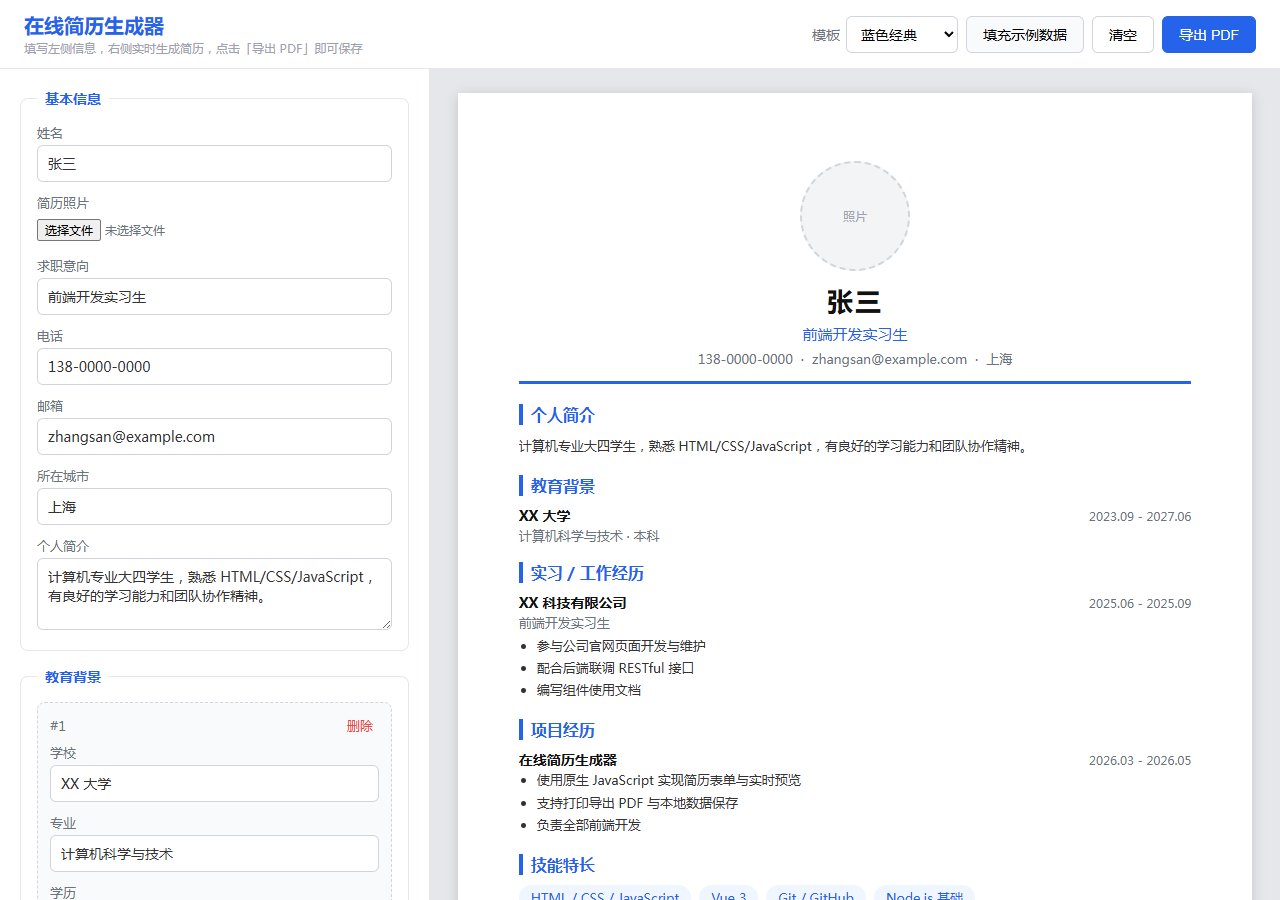
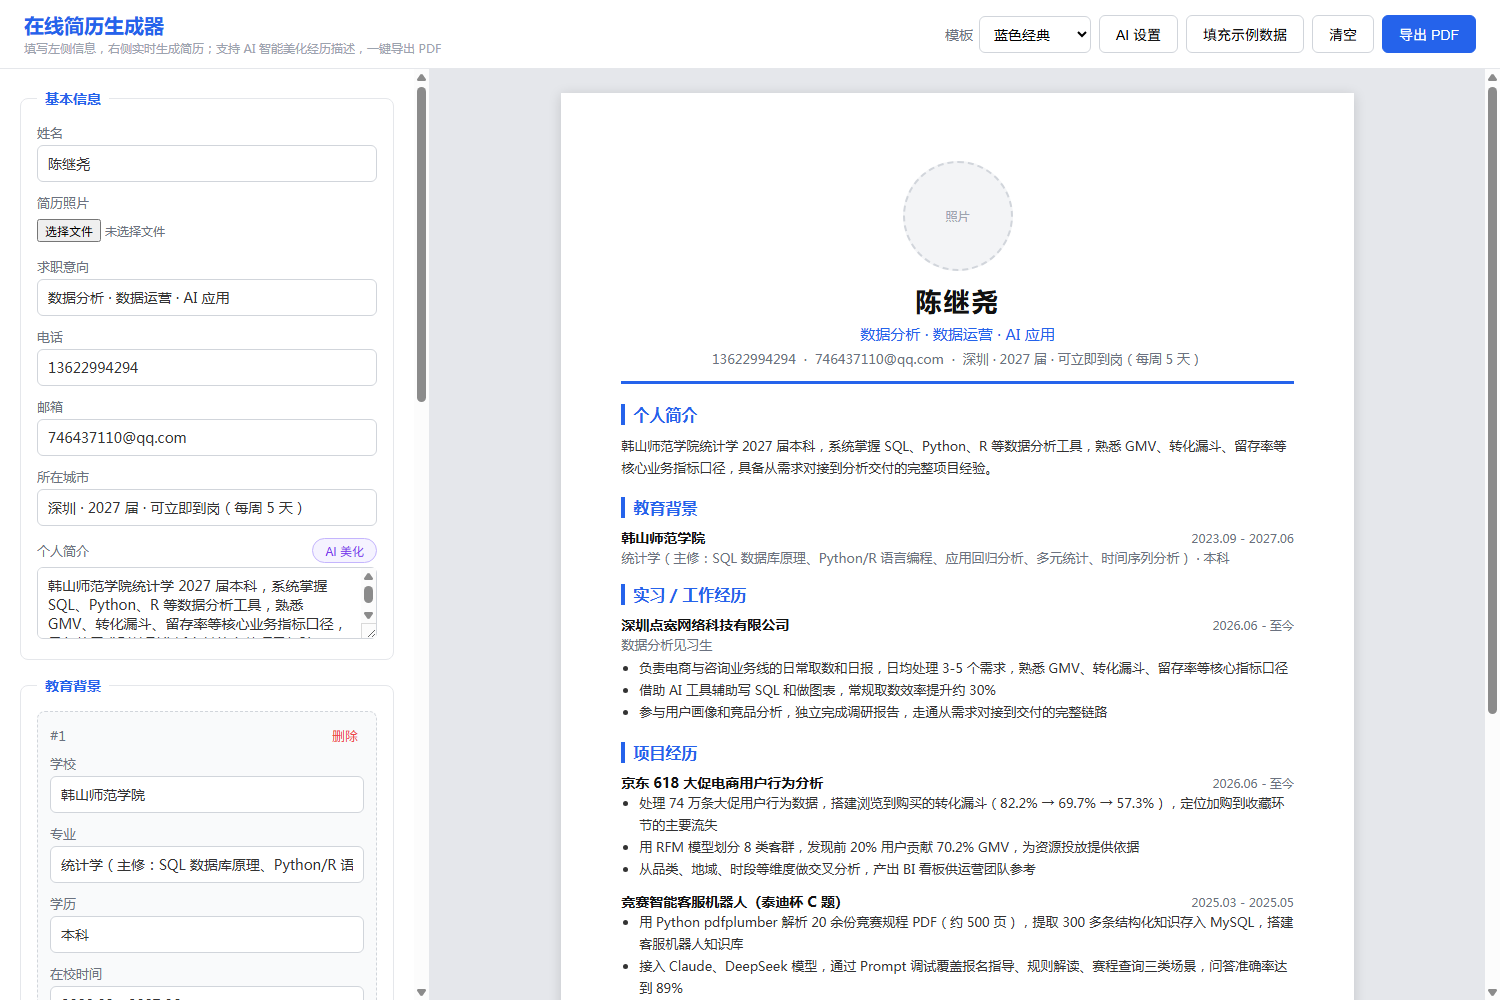
docs: 更新 README 与效果截图
- 补充 AI 智能美化功能说明与配置教程
- 新增 URL 参数预览小技巧与更新日志
- 重新生成主界面与侧边栏模板截图

diff --git a/README.md b/README.md
@@ -1,10 +1,11 @@
 # 在线简历生成器
 
-一个纯前端实现的在线简历制作网站：用户填写表单 → 实时生成排版好的 A4 简历 → 一键导出 PDF。
+一个纯前端实现的在线简历制作网站：用户填写表单 → 实时生成排版好的 A4 简历 → AI 智能美化经历描述 → 一键导出 PDF。
 
 ## 功能特性
 
 - **表单录入**：基本信息、教育背景、实习/工作经历、项目经历（支持多条动态添加/删除）、技能特长、自我评价
+- **AI 智能美化**：填写工作内容、项目描述、个人简介、技能特长、自我评价时，点击「AI 美化」即可调用大模型润色——动词开头、量化成果、贴合招聘方阅读习惯；用户自行填写 API Key，支持 DeepSeek / 通义千问 / 智谱 GLM / Kimi / OpenAI 及任意 OpenAI 兼容接口
 - **实时预览**：输入即更新，A4 纸张实时渲染，空白栏目自动隐藏
 - **三套简历模板**：蓝色经典 / 深色头部 / 侧边栏双栏，一键切换，切换后自动记住
 - **照片上传**：自动压缩到 320px 存本地，三套模板均支持显示，可随时移除
@@ -23,23 +24,48 @@
 2. 仓库 Settings → Pages → Source 选择 `main` 分支 + `/ (root)` → Save
 3. 约 1 分钟后访问 `https://你的用户名.github.io/仓库名/`
 
+## 使用 AI 智能美化
+
+1. 点击顶部工具栏的「**AI 设置**」按钮
+2. 选择服务商（内置 DeepSeek、通义千问、智谱 GLM、Kimi、OpenAI 预设，也可选自定义填写任意 OpenAI 兼容接口地址），系统会自动填入默认的接口地址与模型名称
+3. 填入**你自己的 API Key** 并保存（Key 仅保存在你自己浏览器的 localStorage 中，不会上传到任何服务器）
+4. 在工作内容、项目描述、个人简介、技能特长、自我评价等文本框旁点击「**AI 美化**」，稍候片刻即可自动回填润色结果
+
+> 说明：纯前端直连需要该服务商允许浏览器跨域（CORS）调用；若提示网络失败，请更换支持 CORS 的服务商或使用自定义反向代理地址。
+
 ## 项目结构
 
 | 文件 | 作用 |
 |---|---|
-| `index.html` | 页面骨架与顶部工具栏 |
-| `style.css` | 页面样式 + 三套模板样式 + 打印样式 |
-| `app.js` | 表单渲染、实时预览、照片压缩、模板切换、数据保存 |
+| `index.html` | 页面骨架、顶部工具栏与 AI 设置弹窗 |
+| `style.css` | 页面样式 + 三套模板样式 + AI 按钮/弹窗样式 + 打印样式 |
+| `app.js` | 表单渲染、实时预览、照片压缩、模板切换、AI 美化（OpenAI 兼容接口调用）、数据保存 |
 | `favicon.svg` | 浏览器标签页图标 |
 | `screenshots/` | 效果截图 |
 | `LICENSE` | MIT 开源协议 |
 
 ## 技术栈
 
-原生 HTML + CSS + JavaScript，零依赖、零构建，浏览器直接运行。
+原生 HTML + CSS + JavaScript，零依赖、零构建，浏览器直接运行；AI 美化基于 OpenAI 兼容的 `chat/completions` 接口，由用户自行配置服务商与密钥。
+
+## 小技巧
+
+- 在 URL 后加 `?demo=1` 可一键填充示例简历（真实案例：统计学背景转数据分析/数据运营方向），加 `&template=sidebar` 可直接预览侧边栏双栏模板，例如 `index.html?demo=1&template=sidebar`
 
 ## 效果截图
 
 ![主界面-蓝色经典](screenshots/main.png)
 
 ![侧边栏双栏模板](screenshots/sidebar.png)
+
+## 更新日志
+
+- **2026-08-19**
+  - 新增 AI 智能美化：用户自填 API Key，支持主流大模型服务商与 OpenAI 兼容接口
+  - 示例数据替换为真实简历案例（数据分析 / 数据运营 / AI 应用方向）
+  - 支持 `?demo=1` / `?template=` URL 参数快速预览
+- **2026-08-18**：首个版本，支持表单录入、三套模板、照片上传、PDF 导出与本地保存
+
+## 许可证
+
+[MIT](LICENSE)
